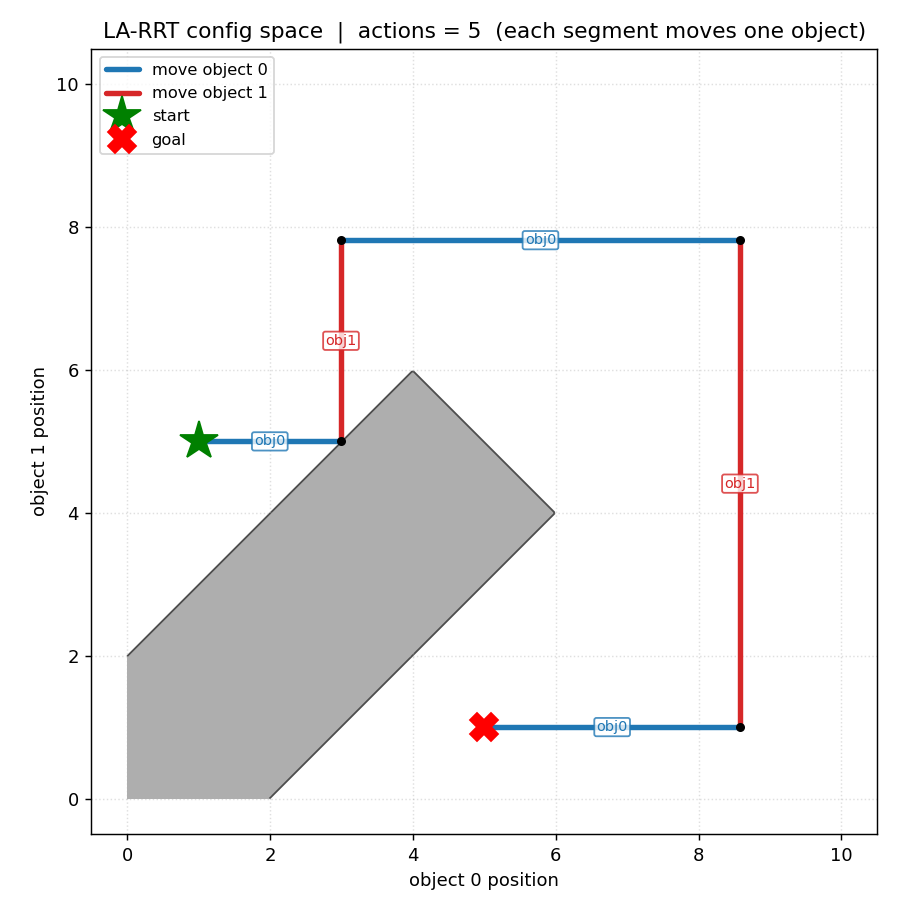
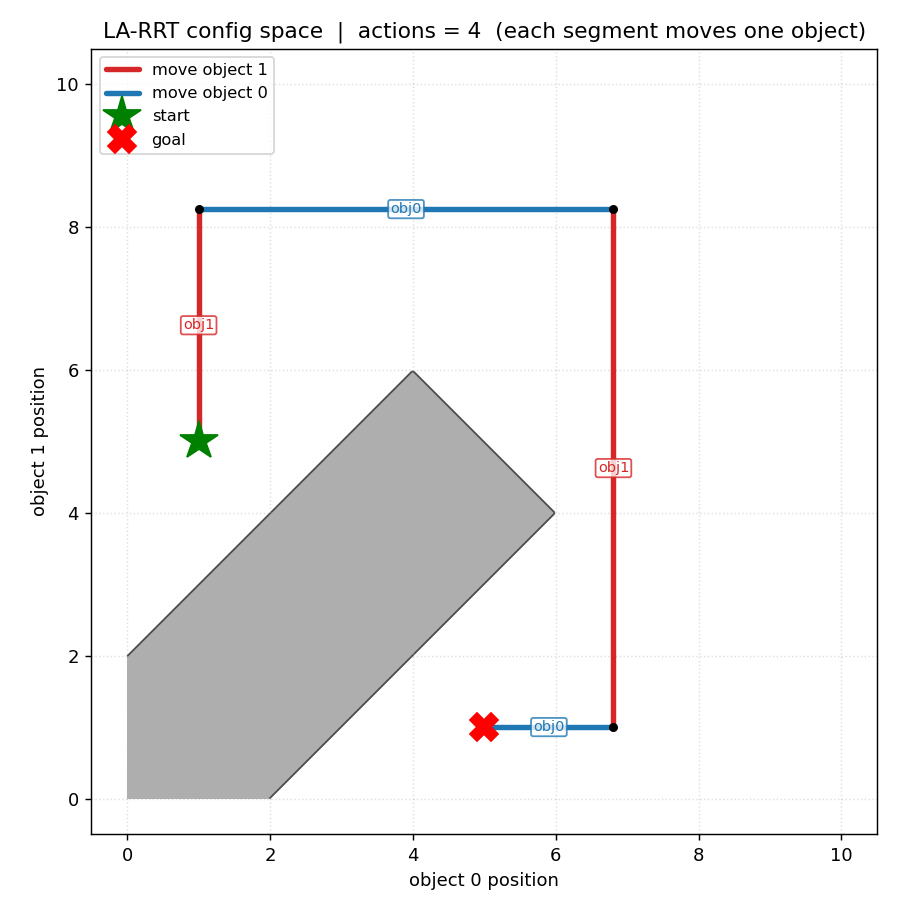
Refresh 2D demos now that defragmentation works
Drop the validate-and-replan workaround: a single seeded solve now returns a
valid, minimal-action path directly. Regenerate JSON/PNG/GIF and update the
README and comments -- configspace is a 4-action weave, workspace a 2-action
plan.

diff --git a/demos/larrt2d/LARRT2D_Workspace.cpp b/demos/larrt2d/LARRT2D_Workspace.cpp
@@ -61,6 +61,7 @@
 #include <ompl/geometric/planners/rrt/LARRT.h>
 #include <ompl/base/objectives/MinimalActionsObjective.h>
 #include <ompl/geometric/SimpleSetup.h>
+#include <ompl/util/RandomNumbers.h>
 
 namespace ob = ompl::base;
 namespace og = ompl::geometric;
@@ -77,10 +78,11 @@ struct Rect
 
 // Obstacles framing the free workspace: four blocks in the quadrant corners
 // leave a central cross-shaped free space. Puck A is relocated along the row
-// y = 5 and puck B along the column x = 5, so their paths cross at the centre.
-// Because the two pucks may not overlap, they cannot both sit at the centre at
-// once -- LA-RRT moves ONE puck per action: puck A steps aside, puck B passes
-// up through the centre, then puck A completes its move (a 3-action plan).
+// y = 5 and puck B along the column x = 5, so their geometric paths cross at the
+// centre. Because the two pucks may not overlap, they cannot both sit at the
+// centre at once -- but since they move ONE puck per action, the trees are never
+// at the centre simultaneously. After defragmentation the plan reduces to the
+// 2-action optimum: move puck B up the column, then puck A across the row.
 static const std::vector<Rect> obstacles = {
     {1.0, 3.0, 1.0, 3.0},   // bottom-left
     {7.0, 9.0, 1.0, 3.0},   // bottom-right
@@ -158,9 +160,8 @@ static bool segmentFree(const std::vector<double> &a, const std::vector<double> 
     return true;
 }
 
-// Validate that the returned path is a genuine, collision-free solution. The
-// LA-RRT PathDefragmenter occasionally returns a truncated/garbled/colliding path
-// for these problems, so we verify every solution and re-plan on a bad one.
+// Sanity-check that the returned path is a genuine, collision-free solution that
+// reaches the goal -- the invariants the PathDefragmenter is required to preserve.
 static bool pathValid(const std::vector<std::vector<double>> &path,
                      const std::vector<double> &startExp,
                      const std::vector<double> &goalExp)
@@ -208,44 +209,31 @@ int main(int /*argc*/, char ** /*argv*/)
     auto larrt = new og::LARRT(si, groups);
     ss.setPlanner(ob::PlannerPtr(larrt));
 
-    // Retry-until-validated: re-plan (fresh seed) until the solution checks out.
-    std::vector<std::vector<double>> path;
-    int actions = 0;
-    bool ok = false;
-    const int maxAttempts = 400;
-    for (int attempt = 1; attempt <= maxAttempts && !ok; ++attempt)
-    {
-        ss.clear();
-        try
-        {
-            if (!ss.solve(2.0))
-                continue;
-        }
-        catch (const std::exception &)
-        {
-            continue;   // defragmenter threw on this seed; discard and retry
-        }
-        path.clear();
-        for (auto *st : ss.getSolutionPath().getStates())
-        {
-            std::vector<double> v;
-            space->copyToReals(v, st);
-            path.push_back(v);
-        }
-        if (pathValid(path, startExp, goalExp))
-        {
-            actions = actionCount(groups, path);
-            ok = true;
-            std::cout << "Found a validated solution on attempt " << attempt << "." << std::endl;
-        }
-    }
+    // Fixed seed so this explainer reproduces the same minimal-action plan every run.
+    ompl::RNG::setSeed(1);
 
-    if (!ok)
+    // A single solve is enough: the PathDefragmenter returns a valid, minimal-action
+    // path directly. We still sanity-check it below to document the invariants.
+    if (!ss.solve(2.0))
     {
-        std::cout << "No validated solution found within " << maxAttempts
-                  << " attempts." << std::endl;
+        std::cout << "No solution found." << std::endl;
         return 1;
     }
+
+    std::vector<std::vector<double>> path;
+    for (auto *st : ss.getSolutionPath().getStates())
+    {
+        std::vector<double> v;
+        space->copyToReals(v, st);
+        path.push_back(v);
+    }
+
+    if (!pathValid(path, startExp, goalExp))
+    {
+        std::cout << "Solution failed validation (should not happen)." << std::endl;
+        return 1;
+    }
+    int actions = actionCount(groups, path);
 
     std::cout << "States: " << path.size()
               << "  |  final action count (puck switches): " << actions

diff --git a/demos/larrt2d/LARRT2D_ConfigSpace.cpp b/demos/larrt2d/LARRT2D_ConfigSpace.cpp
@@ -61,6 +61,7 @@
 #include <ompl/geometric/planners/rrt/LARRT.h>
 #include <ompl/base/objectives/MinimalActionsObjective.h>
 #include <ompl/geometric/SimpleSetup.h>
+#include <ompl/util/RandomNumbers.h>
 
 namespace ob = ompl::base;
 namespace og = ompl::geometric;
@@ -75,7 +76,8 @@ namespace og = ompl::geometric;
 //
 // To rearrange from "object 1 ahead" (1,5) to "object 0 ahead" (5,1), the plan
 // must route up through the passing zone and back, one object moving per action.
-// The minimal-action solution is a 5-action axis-aligned weave around the band.
+// After defragmentation the minimal-action solution is a 4-action axis-aligned
+// weave around the band.
 static constexpr double BAND_GAP = 2.0;
 static constexpr double BAND_SUM = 10.0;
 
@@ -136,10 +138,8 @@ static bool segmentFree(const std::vector<double> &a, const std::vector<double> 
     return true;
 }
 
-// Validate that the returned path is a genuine, collision-free solution.
-// The LA-RRT PathDefragmenter occasionally returns a truncated/garbled path for
-// these small 2-group problems, so we verify every solution and re-plan on a bad
-// one (see the retry loop in main).
+// Sanity-check that the returned path is a genuine, collision-free solution that
+// reaches the goal -- the invariants the PathDefragmenter is required to preserve.
 static bool pathValid(const std::vector<std::vector<double>> &path,
                      const std::vector<double> &startExp,
                      const std::vector<double> &goalExp)
@@ -185,45 +185,31 @@ int main(int /*argc*/, char ** /*argv*/)
     auto larrt = new og::LARRT(si, groups);
     ss.setPlanner(ob::PlannerPtr(larrt));
 
-    // Retry-until-validated: re-plan (fresh seed) until the solution checks out.
-    std::vector<std::vector<double>> path;
-    int actions = 0;
-    bool ok = false;
-    const int maxAttempts = 400;
-    for (int attempt = 1; attempt <= maxAttempts && !ok; ++attempt)
-    {
-        ss.clear();
-        try
-        {
-            if (!ss.solve(2.0))
-                continue;
-        }
-        catch (const std::exception &e)
-        {
-            // The defragmenter can throw on some seeds; discard and retry.
-            continue;
-        }
-        path.clear();
-        for (auto *st : ss.getSolutionPath().getStates())
-        {
-            std::vector<double> v;
-            space->copyToReals(v, st);
-            path.push_back(v);
-        }
-        if (pathValid(path, startExp, goalExp))
-        {
-            actions = actionCount(groups, path);
-            ok = true;
-            std::cout << "Found a validated solution on attempt " << attempt << "." << std::endl;
-        }
-    }
+    // Fixed seed so this explainer reproduces the same minimal-action plan every run.
+    ompl::RNG::setSeed(1);
 
-    if (!ok)
+    // A single solve is enough: the PathDefragmenter returns a valid, minimal-action
+    // path directly. We still sanity-check it below to document the invariants.
+    if (!ss.solve(2.0))
     {
-        std::cout << "No validated solution found within " << maxAttempts
-                  << " attempts." << std::endl;
+        std::cout << "No solution found." << std::endl;
         return 1;
     }
+
+    std::vector<std::vector<double>> path;
+    for (auto *st : ss.getSolutionPath().getStates())
+    {
+        std::vector<double> v;
+        space->copyToReals(v, st);
+        path.push_back(v);
+    }
+
+    if (!pathValid(path, startExp, goalExp))
+    {
+        std::cout << "Solution failed validation (should not happen)." << std::endl;
+        return 1;
+    }
+    int actions = actionCount(groups, path);
 
     std::cout << "States: " << path.size()
               << "  |  final action count (group switches): " << actions

diff --git a/demos/larrt2d/README.md b/demos/larrt2d/README.md
@@ -22,23 +22,23 @@ Because one object moves per action, every path segment is **axis-aligned**, so
 "minimal actions" reads visually as "fewest axis-aligned segments". The two
 objects share a track and may not come within a gap of each other (the forbidden
 diagonal band `|x - y| < gap` while `x + y < sum_limit`), except in a passing
-zone at the high end. Re-ordering the two objects therefore needs a **5-action**
-weave up through the passing zone and back. Output: `out/configspace.json`.
+zone at the high end. After defragmentation, re-ordering the two objects is a
+**4-action** weave up through the passing zone and back.
+Output: `out/configspace.json`.
 
 ### Demo B -- workspace rearrangement explainer (`demo_LARRT2D_workspace`)
 Two pucks in a shared 2-D workspace, `groups = {{0,1}, {2,3}}` (puck A =
 dims 0,1; puck B = dims 2,3). Each action moves one puck while the other stays
 put. Four corner obstacles leave a cross-shaped free space; puck A is relocated
-along a row and puck B along a column, crossing at the centre. Since the pucks
-may not overlap, LA-RRT sequences them (puck A steps aside, puck B passes, puck A
-finishes) -- a **3-action** plan. Output: `out/workspace.json`.
+along a row and puck B along a column, crossing at the centre. The pucks may not
+overlap, but since only one moves per action they are never at the centre at the
+same time, so after defragmentation the plan is the **2-action** optimum (move
+puck B up the column, then puck A across the row). Output: `out/workspace.json`.
 
-> **Note on robustness.** For these small problems the `PathDefragmenter`
-> occasionally returns a truncated / garbled / colliding path (and on some seeds
-> throws). Each demo therefore **validates** every returned path in C++ (exact
-> start/goal, dense collision check) and **re-plans** until a genuine,
-> collision-free solution is obtained. The validated path is what gets written to
-> JSON, so the visualised result is always correct.
+> **Reproducibility.** Each demo fixes the RNG seed and solves once; the returned
+> path is sanity-checked in C++ (exact start/goal, dense collision check) before
+> being written to JSON. No re-planning loop is needed -- the `PathDefragmenter`
+> returns a valid, minimal-action path directly.
 
 ## Build
 
